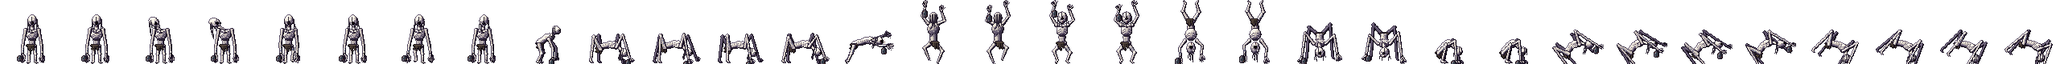
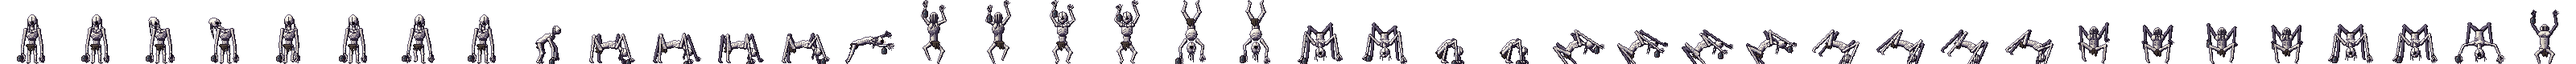
The Wolf Man faces where he crawls, like everyone else seen from above: crawling up the screen he turns his back to the camera (new back view: shoulder blades, spine knuckles, ribs and hips, lank hair, the far arms cocked high with the lantern), crawling down he comes face-on with a full four-step g
Claude-Session: https://claude.ai/code/session_01VuDZBwELyciHjvCxSy56p5

Changed region(s): [[0.0, 0.0, 1.0, 1.0], [0.9688, 0.175, 1.0, 0.25]]

diff --git a/tools/make_longman.py b/tools/make_longman.py
@@ -603,10 +603,11 @@ def climb_front_down(phase=0):
 
 
 def crawl_front(phase=0):
-    """On all fours straight at you: head hanging low, elbows high and wide."""
+    """On all fours straight at you: head hanging low, elbows high and wide.
+    phase 0..3 through the gait: 0 and 2 the two reaches, 1 and 3 the passes."""
     f = Frame()
     cx = 32
-    a, b = (0, 4) if phase == 0 else (4, 0)
+    a, b = [(0, 4), (2, 2), (4, 0), (2, 2)][phase % 4]
     leg(f, (cx - 3, 36), (cx - 13, 26 - a), (cx - 16, 70 - a * 0.5), (cx - 17, 74 - a * 0.5), FAR, "far")
     leg(f, (cx + 3, 36), (cx + 13, 26 - b), (cx + 16, 70 - b * 0.5), (cx + 17, 74 - b * 0.5), FAR, "far")
     tatters(f, cx - 4, cx + 4, 35, [3, 5, 2, 4, 3], swing=0.4)
@@ -621,7 +622,107 @@ def crawl_front(phase=0):
     arm(f, (cx + 7.5, 50), (cx + 18, 34 + b), (cx + 22, 70 - b), [(cx + 25, 78 - b), (cx + 23, 79 - b), (cx + 21, 79 - b), (cx + 26.5, 76 - b)])
     lantern(f, (cx - 22, 70.5 - a), drop=1.5, swing=2.5)
     neck_front(f, cx, 55, 51)
-    face_front(f, (cx, 63), tilt=8 if phase else -8, swing=0.2)
+    face_front(f, (cx, 63), tilt=[-8, -3, 8, 3][phase % 4], swing=0.2)
+    return f
+
+
+def crawl_away(phase=0):
+    """On all fours going away from you, seen from behind and above: the hips
+    nearest (the rags of its shroud hanging off them), the knobbed spine
+    running up to the shoulder blades, elbows cocked high and wide, the crown
+    of its head hanging low between them with the hair falling past. The
+    hands plant far ahead; diagonal pairs step together. phase 0..3."""
+    f = Frame()
+    cx = 32
+    la, lb = [(0, 3.5), (1.8, 1.8), (3.5, 0), (1.8, 1.8)][phase % 4]   # lift: left arm + right leg / right arm + left leg
+    sway = [0.0, 0.6, 0.0, -0.6][phase % 4]
+    # far: the arms reaching ahead, up the frame
+    wrists = {}
+    for s, lift in ((-1, la), (1, lb)):
+        sho = (cx + s * 6.6 + sway, 40)
+        elb = (cx + s * 16.5 + sway, 25 - lift)
+        wri = (cx + s * 15.0 + sway * 0.5, 48 - lift * 1.6)
+        tips = [(wri[0] + s * 2.4, wri[1] + 3.2), (wri[0] + s * 0.8, wri[1] + 4.2), (wri[0] - s * 0.9, wri[1] + 3.8), (wri[0] + s * 3.4, wri[1] + 1.6)]
+        arm(f, sho, elb, wri, tips, FAR, "far")
+        wrists[s] = wri
+    lantern(f, (wrists[-1][0] - 1.2, wrists[-1][1] + 1.0), drop=2.2, swing=1.2 - la * 0.4)
+    # the crown of the head, hanging low between the shoulders
+    back_head(f, (cx + sway * 0.6, 32.5), swing=0.5 * (1 if phase % 2 else -1))
+    # the back: hips nearest, the spine up to the shoulders
+    cells = f.group([Frame.blob((cx, 57), 6.4, 4.6), Frame.tube((cx, 55), (cx + sway * 0.5, 44), 4.2, 5.4),
+                     Frame.blob((cx + sway * 0.6, 40.5), 8.0, 5.0)], BK, "back")
+    for s in (-1, 1):   # shoulder blades, standing proud
+        f.group([Frame.blob((cx + sway * 0.6 + s * 4.0, 40.5), 2.7, 3.3, s * 18)], BK, "back", outline=False, bias=0.2)
+        f.line((cx + sway * 0.6 + s * 1.6, 38), (cx + sway * 0.6 + s * 5.4, 43.5), BK[1], cells)
+    for i, y in enumerate(range(37, 56, 2)):   # the spine's knuckles
+        x = cx + sway * 0.6 * (1 - (y - 37) / 19.0)
+        f.put((x, y), BK[7] if i % 2 == 0 else BK[5])
+        f.put((x, y + 1), BK[1])
+        f.put((x + 1, y), BK[2])
+    for i in range(4):   # ribs through the flanks
+        for s in (-1, 1):
+            f.line((cx + s * 2.2, 44 + i * 2.2), (cx + s * 5.8, 45.2 + i * 2.3), BK[2 if s < 0 else 1], cells)
+    for s in (-1, 1):   # hip bones
+        f.put((cx + s * 4.8, 55), BK[7] if s < 0 else BK[5], cells)
+        f.put((cx + s * 4.2, 54), BK[6] if s < 0 else BK[4], cells)
+    tatters(f, cx - 4.6, cx + 4.6, 59, [3, 6, 4, 7, 4], swing=sway)
+    # lank hair from the crown, falling over its shoulders and down its back
+    for i, u in enumerate((-3.2, -1.6, -0.2, 1.4, 2.9)):
+        dangle(f, (cx + sway * 0.6 + u, 28.5 + abs(u) * 0.5), 9 + (i * 3) % 5, swing=(0.6 if i % 2 else -0.6) + sway, out=(u * 0.15, 0.3))
+    # near: the legs, knees thrown out wide, long feet planted toward you
+    for s, lift in ((-1, lb), (1, la)):
+        leg(f, (cx + s * 4.2, 58), (cx + s * 14.5, 53 - lift), (cx + s * 12.5, 74 - lift * 0.7), (cx + s * 11.0, 78 - lift * 0.7), BK, "back")
+    return f
+
+
+def lunge_toward():
+    """Springing straight at you: the arms flung out to either side and
+    down, hands huge and splayed, the face thrust up into the light."""
+    f = Frame()
+    cx = 32
+    leg(f, (cx - 3, 30), (cx - 12, 20), (cx - 15, 46), (cx - 16, 50), FAR, "far")
+    leg(f, (cx + 3, 30), (cx + 12, 20), (cx + 15, 46), (cx + 16, 50), FAR, "far")
+    tatters(f, cx - 4, cx + 4, 30, [3, 5, 2, 4, 3], swing=0.2)
+    cells = f.group([Frame.blob((cx, 33), 4.4, 3.4), Frame.tube((cx, 34), (cx, 44), 3.6, 5.2), Frame.blob((cx, 48), 7.6, 5.4)], SK, "skin")
+    for s in (-1, 1):
+        for i in range(3):
+            f.line((cx + s * 2, 40 + i * 2), (cx + s * 5.5, 41 + i * 2), SK[2], cells)
+    for s, vein in ((-1, True), (1, False)):
+        sho = (cx + s * 7.8, 48)
+        elb = (cx + s * 20, 52)
+        wri = (cx + s * 25, 66)
+        tips = [(wri[0] + s * 4.0, 74), (wri[0] + s * 1.5, 77), (wri[0] - s * 1.0, 77), (wri[0] - s * 3.2, 74), (wri[0] + s * 5.0, 70)]
+        arm(f, sho, elb, wri, tips, vein=vein)
+        if s < 0:
+            lantern(f, (wri[0] - 0.5, wri[1] + 1), drop=1.5, swing=-1.5)
+    neck_front(f, cx, 58, 51)
+    face_front(f, (cx, 64), tilt=0, swing=0.6, hole_r=2.6)
+    return f
+
+
+def lunge_away():
+    """Springing away up the frame from behind: arms flung ahead, the back
+    stretched long, the legs kicking off at you."""
+    f = Frame()
+    cx = 32
+    for s in (-1, 1):
+        sho = (cx + s * 6.5, 36)
+        elb = (cx + s * 15, 22)
+        wri = (cx + s * 13, 8)
+        tips = [(wri[0] + s * 2.0, 3), (wri[0] + s * 0.5, 2), (wri[0] - s * 1.2, 3), (wri[0] + s * 3.2, 5)]
+        arm(f, sho, elb, wri, tips, FAR, "far")
+        if s < 0:
+            lantern(f, (wri[0] - 1, wri[1] + 1.5), drop=3.0, swing=-1.0)
+    back_head(f, (cx, 28), swing=0.8)
+    cells = f.group([Frame.blob((cx, 58), 6.2, 4.4), Frame.tube((cx, 56), (cx, 40), 4.0, 5.4), Frame.blob((cx, 36.5), 8.0, 5.0)], BK, "back")
+    for i, y in enumerate(range(33, 57, 2)):
+        f.put((cx, y), BK[7] if i % 2 == 0 else BK[5])
+        f.put((cx, y + 1), BK[1])
+    for s in (-1, 1):
+        f.group([Frame.blob((cx + s * 4.0, 36.5), 2.7, 3.3, s * 18)], BK, "back", outline=False, bias=0.2)
+    tatters(f, cx - 4.4, cx + 4.4, 60, [4, 7, 5, 8, 5], swing=0.0)
+    for s in (-1, 1):
+        leg(f, (cx + s * 4, 60), (cx + s * 10, 66), (cx + s * 7, 76), (cx + s * 6.5, 79), BK, "back")
     return f
 
 
@@ -790,14 +891,19 @@ FRAMES = [
     ("up, back 1", lambda: climb_back(0)), ("up, back 2", lambda: climb_back(1)),
     ("over 1", lambda: climb_front_up(0)), ("over 2", lambda: climb_front_up(1)),
     ("down 1", lambda: climb_front_down(0)), ("down 2", lambda: climb_front_down(1)),
-    ("toward 1", lambda: crawl_front(0)), ("toward 2", lambda: crawl_front(1)),
+    ("toward 1", lambda: crawl_front(0)), ("toward 2", lambda: crawl_front(2)),
     ("perch", lambda: perch()), ("perch tilt", lambda: perch(tilt=35)),
     ("side up 1", lambda: crawl_side(0, -38)), ("side up 2", lambda: crawl_side(1, -38)),
     ("side up 3", lambda: crawl_side(2, -38)), ("side up 4", lambda: crawl_side(3, -38)),
     ("side down 1", lambda: crawl_side(0, 34)), ("side down 2", lambda: crawl_side(1, 34)),
     ("side down 3", lambda: crawl_side(2, 34)), ("side down 4", lambda: crawl_side(3, 34)),
+    # (added: crawling away from you, the passes between the steps toward you, lunges at and away)
+    ("away 1", lambda: crawl_away(0)), ("away 2", lambda: crawl_away(1)),
+    ("away 3", lambda: crawl_away(2)), ("away 4", lambda: crawl_away(3)),
+    ("toward 3", lambda: crawl_front(1)), ("toward 4", lambda: crawl_front(3)),
+    ("lunge toward", lunge_toward), ("lunge away", lunge_away),
 ]
-FIT = ("side", "perch", "lunge", "drop", "crawl")
+FIT = ("side", "perch", "lunge", "drop", "crawl", "away")
 
 
 def main(out):
@@ -809,7 +915,7 @@ def main(out):
         if not FLAT:
             if name.startswith(("idle", "breathe", "tilt", "walk")):
                 WARP = warp_upright
-            elif name.startswith(("crawl", "lunge", "drop", "perch", "toward", "side")):
+            elif name.startswith(("crawl", "lunge", "drop", "perch", "toward", "side", "away")):
                 WARP = warp_low
         f = fn()
         WARP = None
